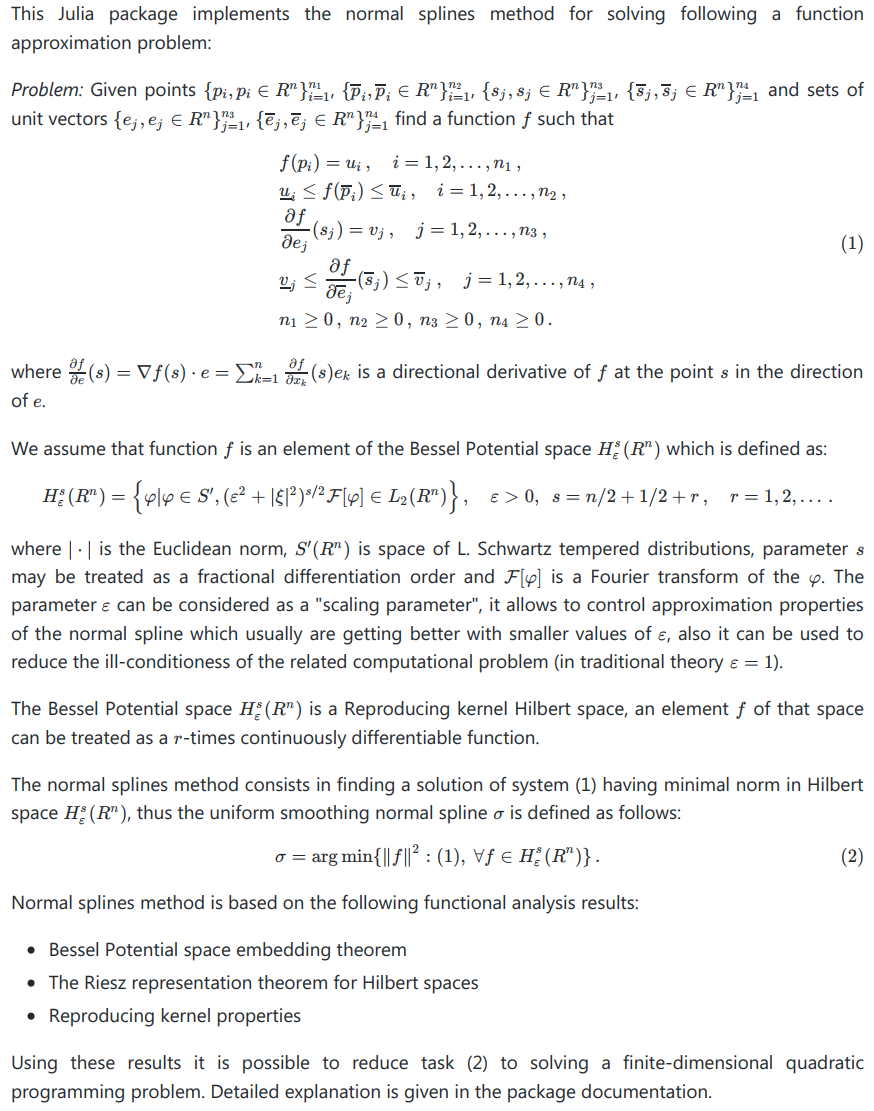
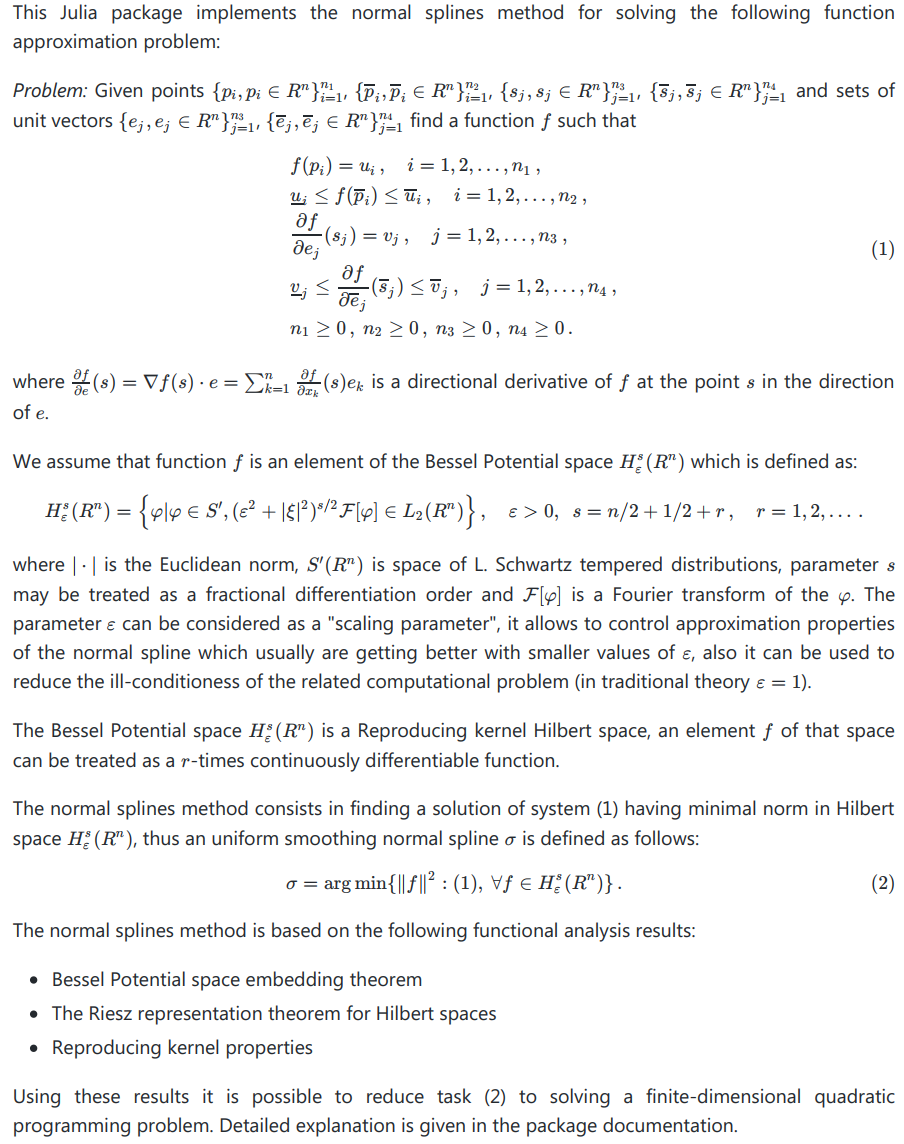
.

diff --git a/images/problem-definition-smoothing.md b/images/problem-definition-smoothing.md
@@ -1,4 +1,4 @@
-This Julia package implements the normal splines method for solving following a function approximation problem:
+This Julia package implements the normal splines method for solving the following function approximation problem:
 
 *Problem:* Given points ``\{p_i, p_i \in R^n\}_{i=1}^{n_1}``, ``\{\overline p_i, \overline p_i \in R^n\}_{i=1}^{n_2}``, ``\{s_j, s_j \in R^n\}_{j=1}^{n_3}``, ``\{\overline s_j, \overline s_j \in R^n\}_{j=1}^{n_4}`` and sets of unit vectors ``\{e_j, e_j \in R^n\}_{j=1}^{n_3}``, ``\{\overline e_j, \overline e_j \in R^n\}_{j=1}^{n_4}`` find a function ``f`` such that
 
